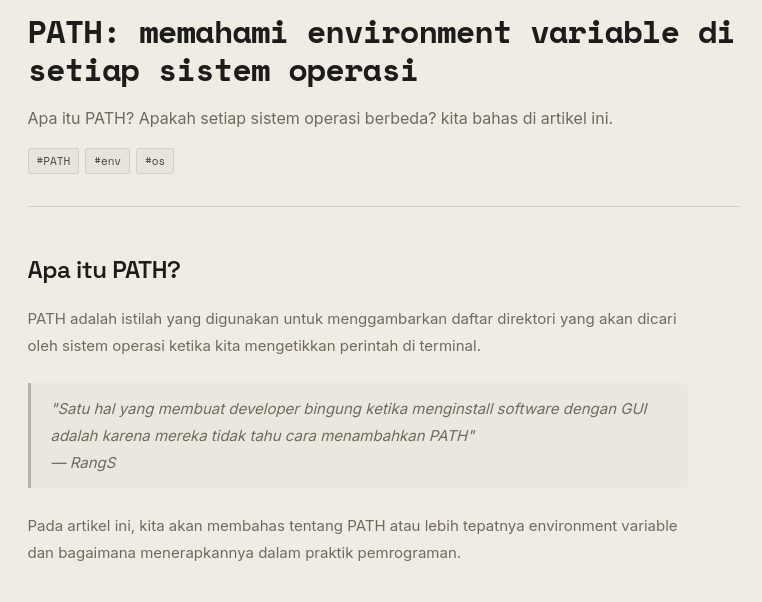
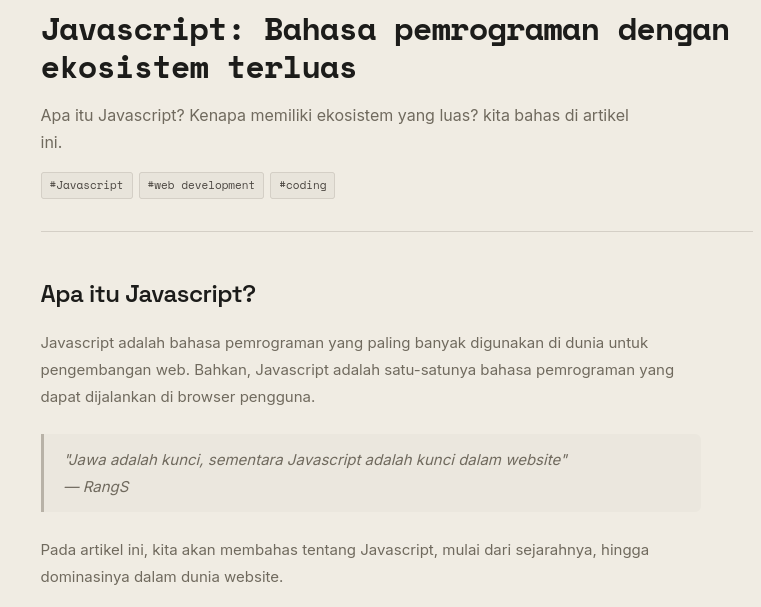
Article: bahasa-pemrograman-javascript - content 100%

diff --git a/articles/bahasa-pemrograman-javascript/index.html b/articles/bahasa-pemrograman-javascript/index.html
@@ -99,7 +99,7 @@
         <span>·</span>
         <span>2026-11-15</span>
         <span>·</span>
-        <span>7 min read</span>
+        <span>8 min read</span>
       </div>
       <h1 class="article-headline">Javascript: Bahasa pemrograman dengan ekosistem terluas</h1>
       <p class="article-summary">
@@ -226,6 +226,7 @@ tombol.addEventListener("click", function() {
       <p>Selain itu, NPM juga menyediakan registry online yang berisi ribuan paket yang dapat digunakan oleh developer. Developer dapat mencari paket yang sesuai dengan kebutuhan mereka dan menginstalnya dengan mudah menggunakan perintah NPM di terminal.</p>
       <p>Dengan NPM, developer dapat menghemat waktu dan usaha dalam mengelola dependensi proyek mereka, sehingga mereka dapat fokus pada pengembangan aplikasi dan fitur-fitur baru.</p>
       <pre><code>npm install nama-paket</code></pre>
+      <p>Baca Juga: <a href="../clean-code-dalam-programming/" target="_blank">Clean Code: membuat kode standar tanpa kerumitan.</a></p>
       
       <h2>Node JS</h2>
       <p>"Kesalahan terbesar pengembang Javascript adalah mengeluarkan Javascript dari browser". Setidaknya itulah yang dikatakan orang-orang tentang Node JS.</p>

diff --git a/assets/js/articles-data.js b/assets/js/articles-data.js
@@ -228,7 +228,7 @@ const ARTICLES = [
     category: "technology",
     tags: ["javascript", "programming", "web development"],
     date: "2026-11-15",
-    readTime: "6 min",
+    readTime: "8 min",
     url: "/articles/bahasa-pemrograman-javascript/"
   }
 ];
